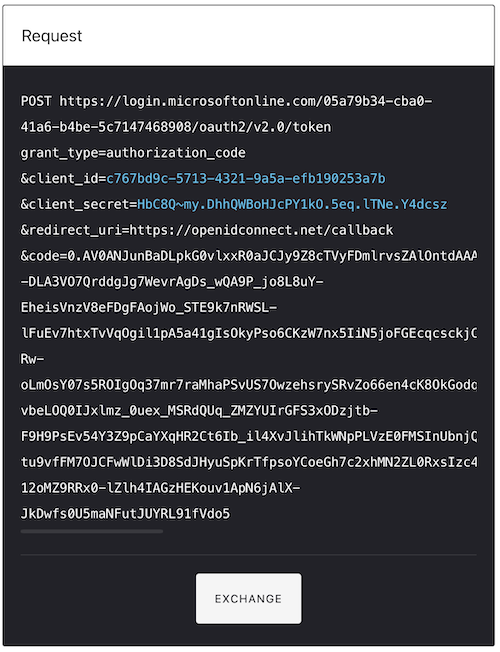
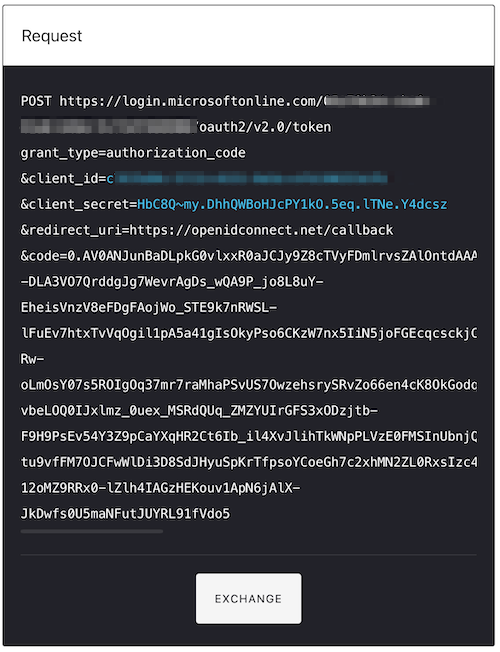
blurred out additional secrets and fixed the url

diff --git a/tyk-docs/content/tyk-stack/tyk-manager/sso/dashboard-login-azure-sso.md b/tyk-docs/content/tyk-stack/tyk-manager/sso/dashboard-login-azure-sso.md
@@ -40,7 +40,7 @@ Check Microsoft's [documentation](https://docs.microsoft.com/en-us/azure/active-
 
   - The well-known endpoint URL is created by Azure and can be located by selecting Endpoints on their site
 
-  ![endpoints](/docs/img/azureAD/endpoints-1.png)
+  ![endpoints](/docs/img/azureAD/endpoints-11.png)
 
 4. Test that it works:
    From the browser call `http://localhost:3000/auth/{PROFILE-NAME-IN-TIB}/openid-connect`
